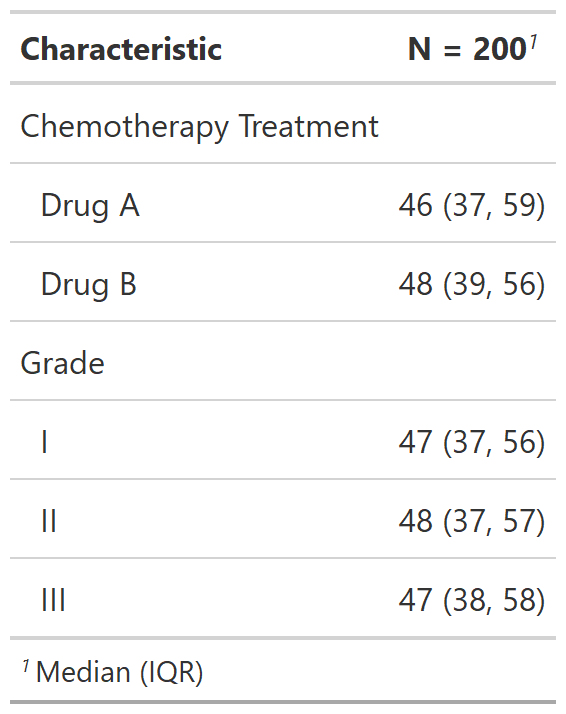
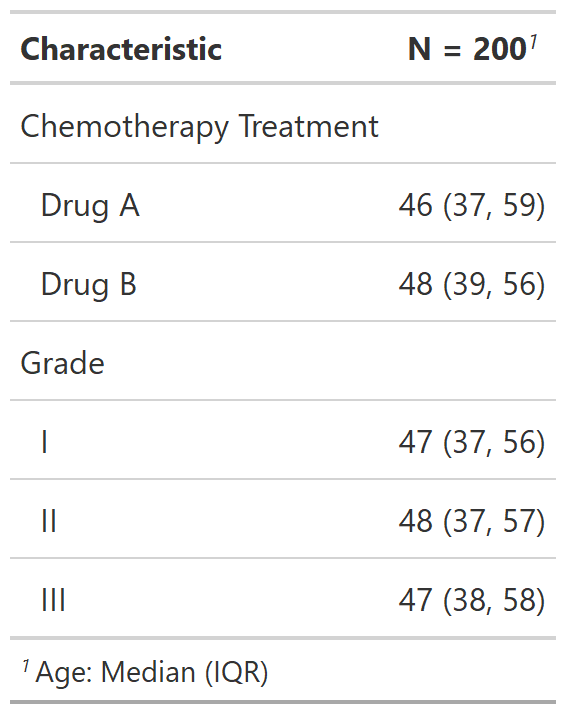
adding variable name to footnote (#1132)
* adding variable name to footnote

* Update tbl_continuous.R

* doc update

* increment version number

* documentation updates

* Update utils-tbl_summary.R

Changed region(s): [[0.0601, 0.9244, 0.4806, 0.986]]

diff --git a/NEWS.md b/NEWS.md
@@ -1,5 +1,7 @@
 # gtsummary (development version)
 
+* Added the continuous variable name/label to the footnote for greater clarity in `tbl_continuous()` (#1123)
+
 * Removed foreign reference to external functions and replaced with indirect calls. (#1129)
 
 * Now exporting the `.create_gtsummary_object()` function as a utility for other packages to build gtsummary tables. (#1130)
